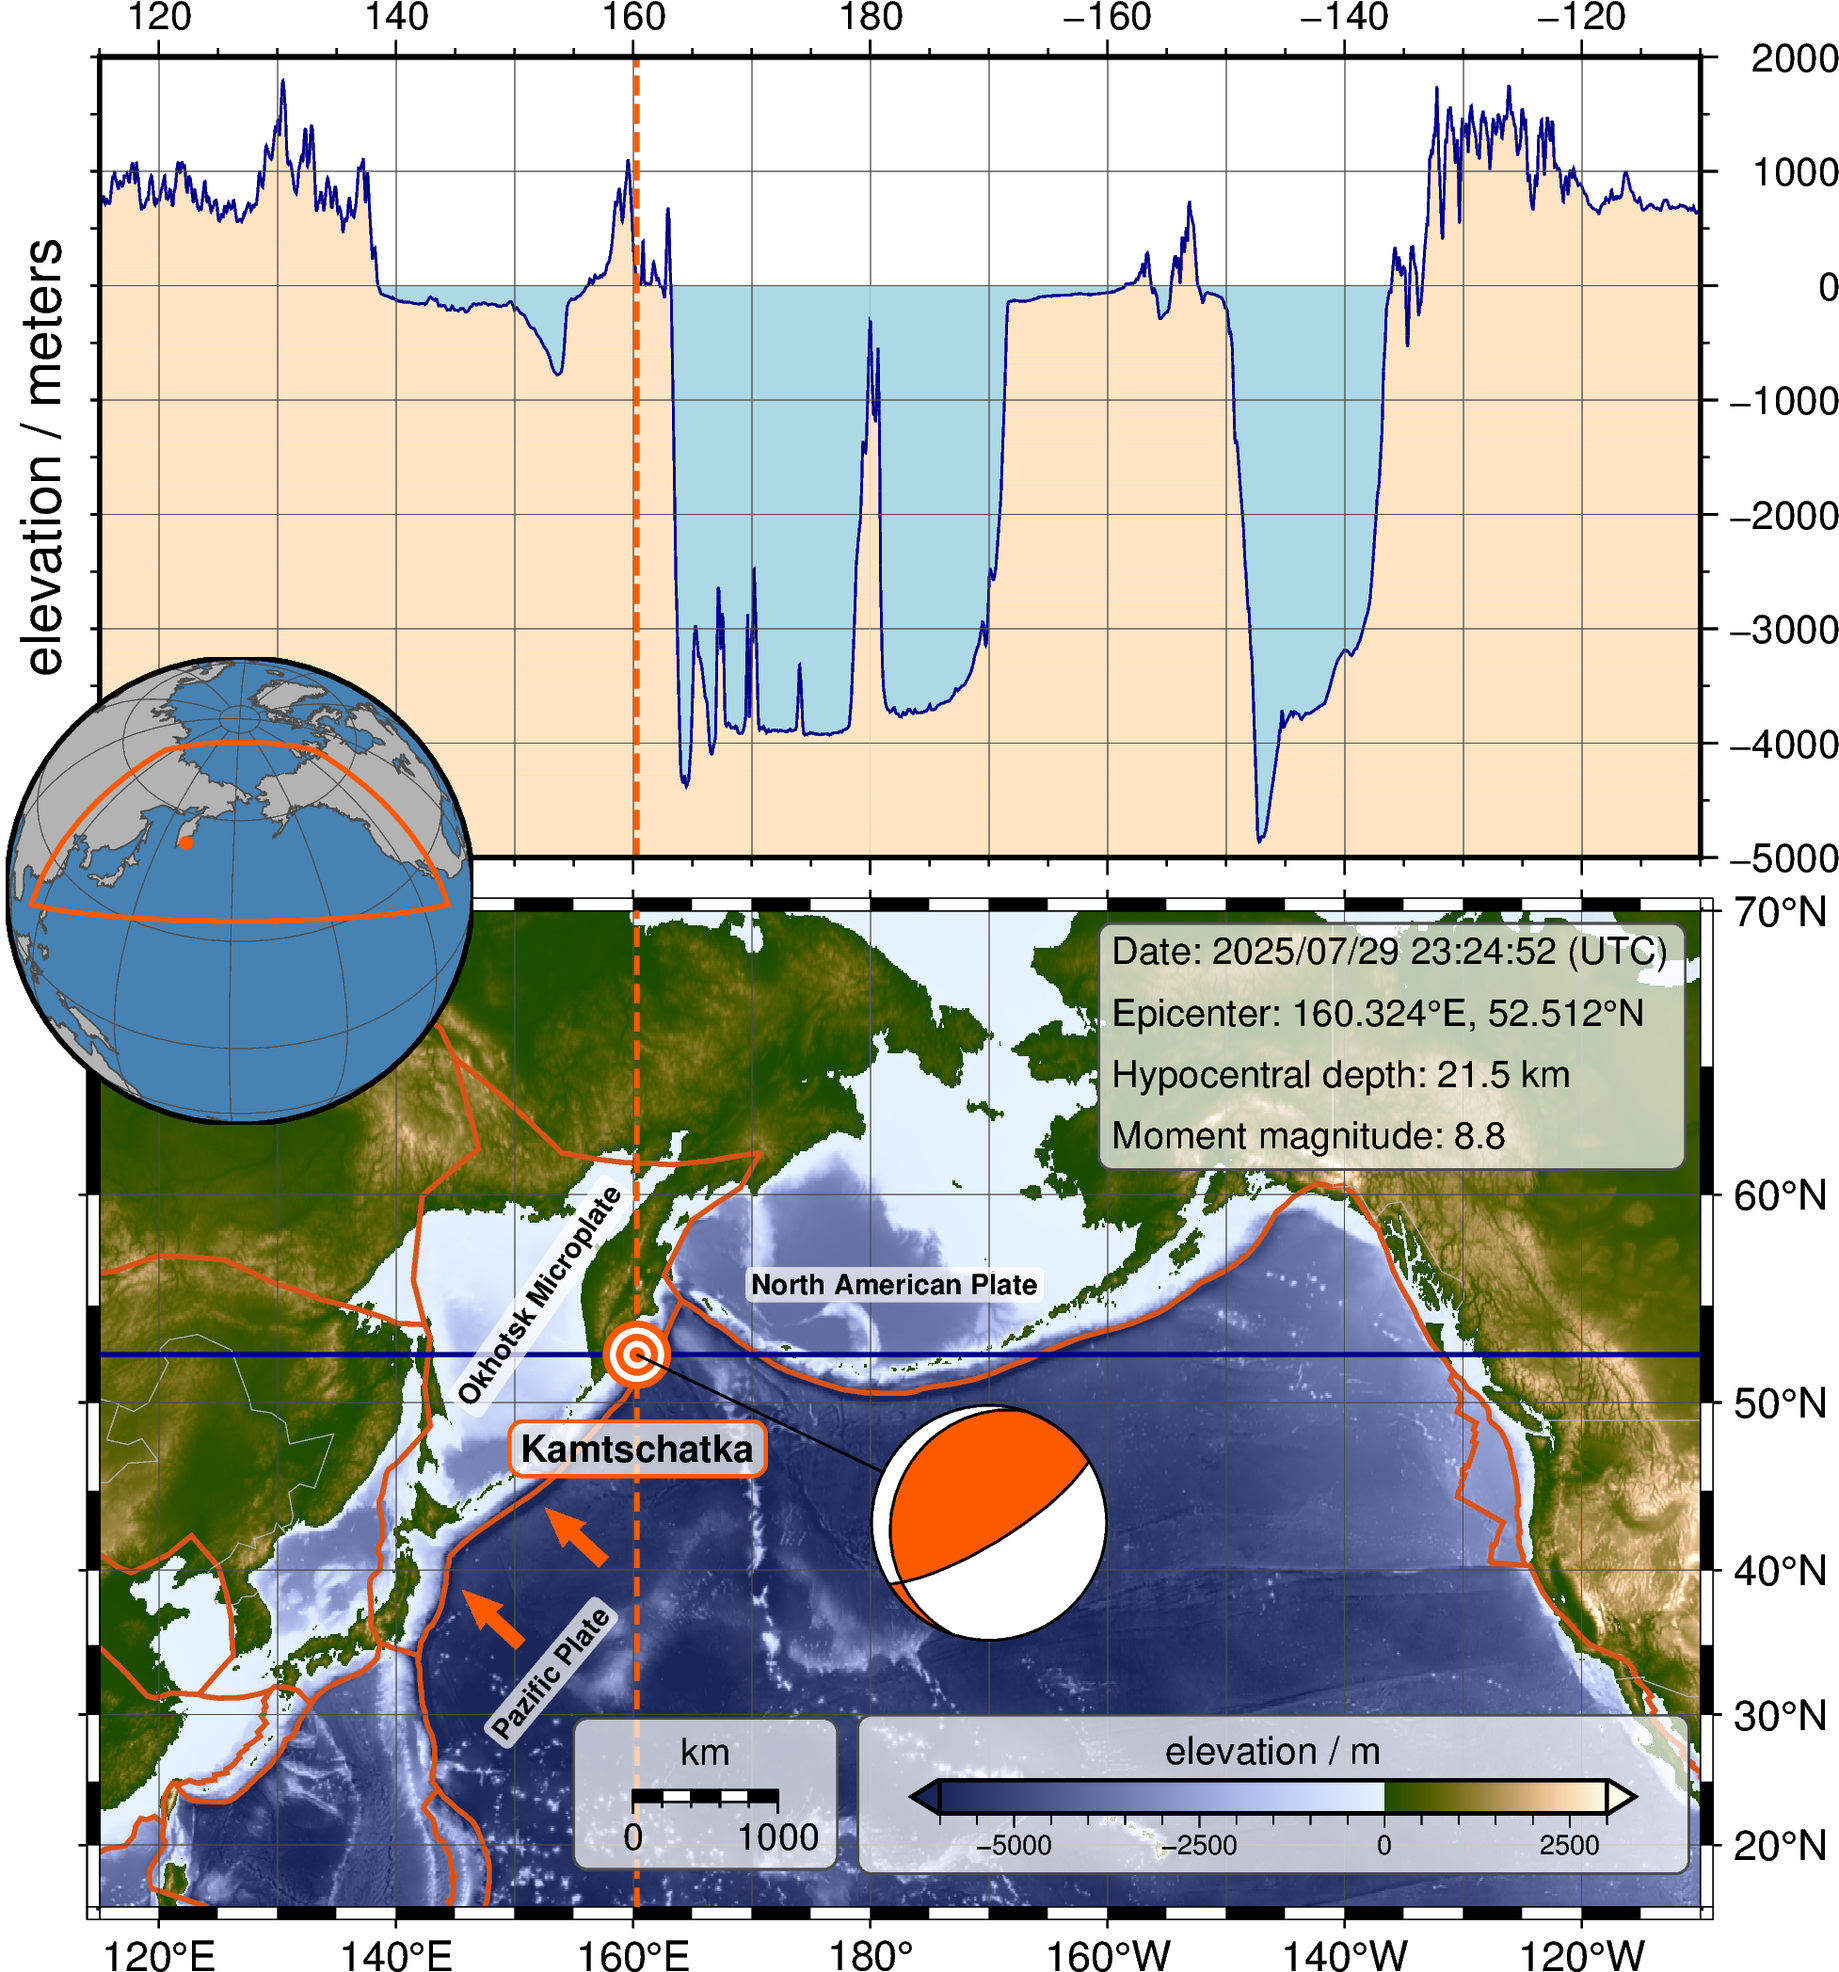
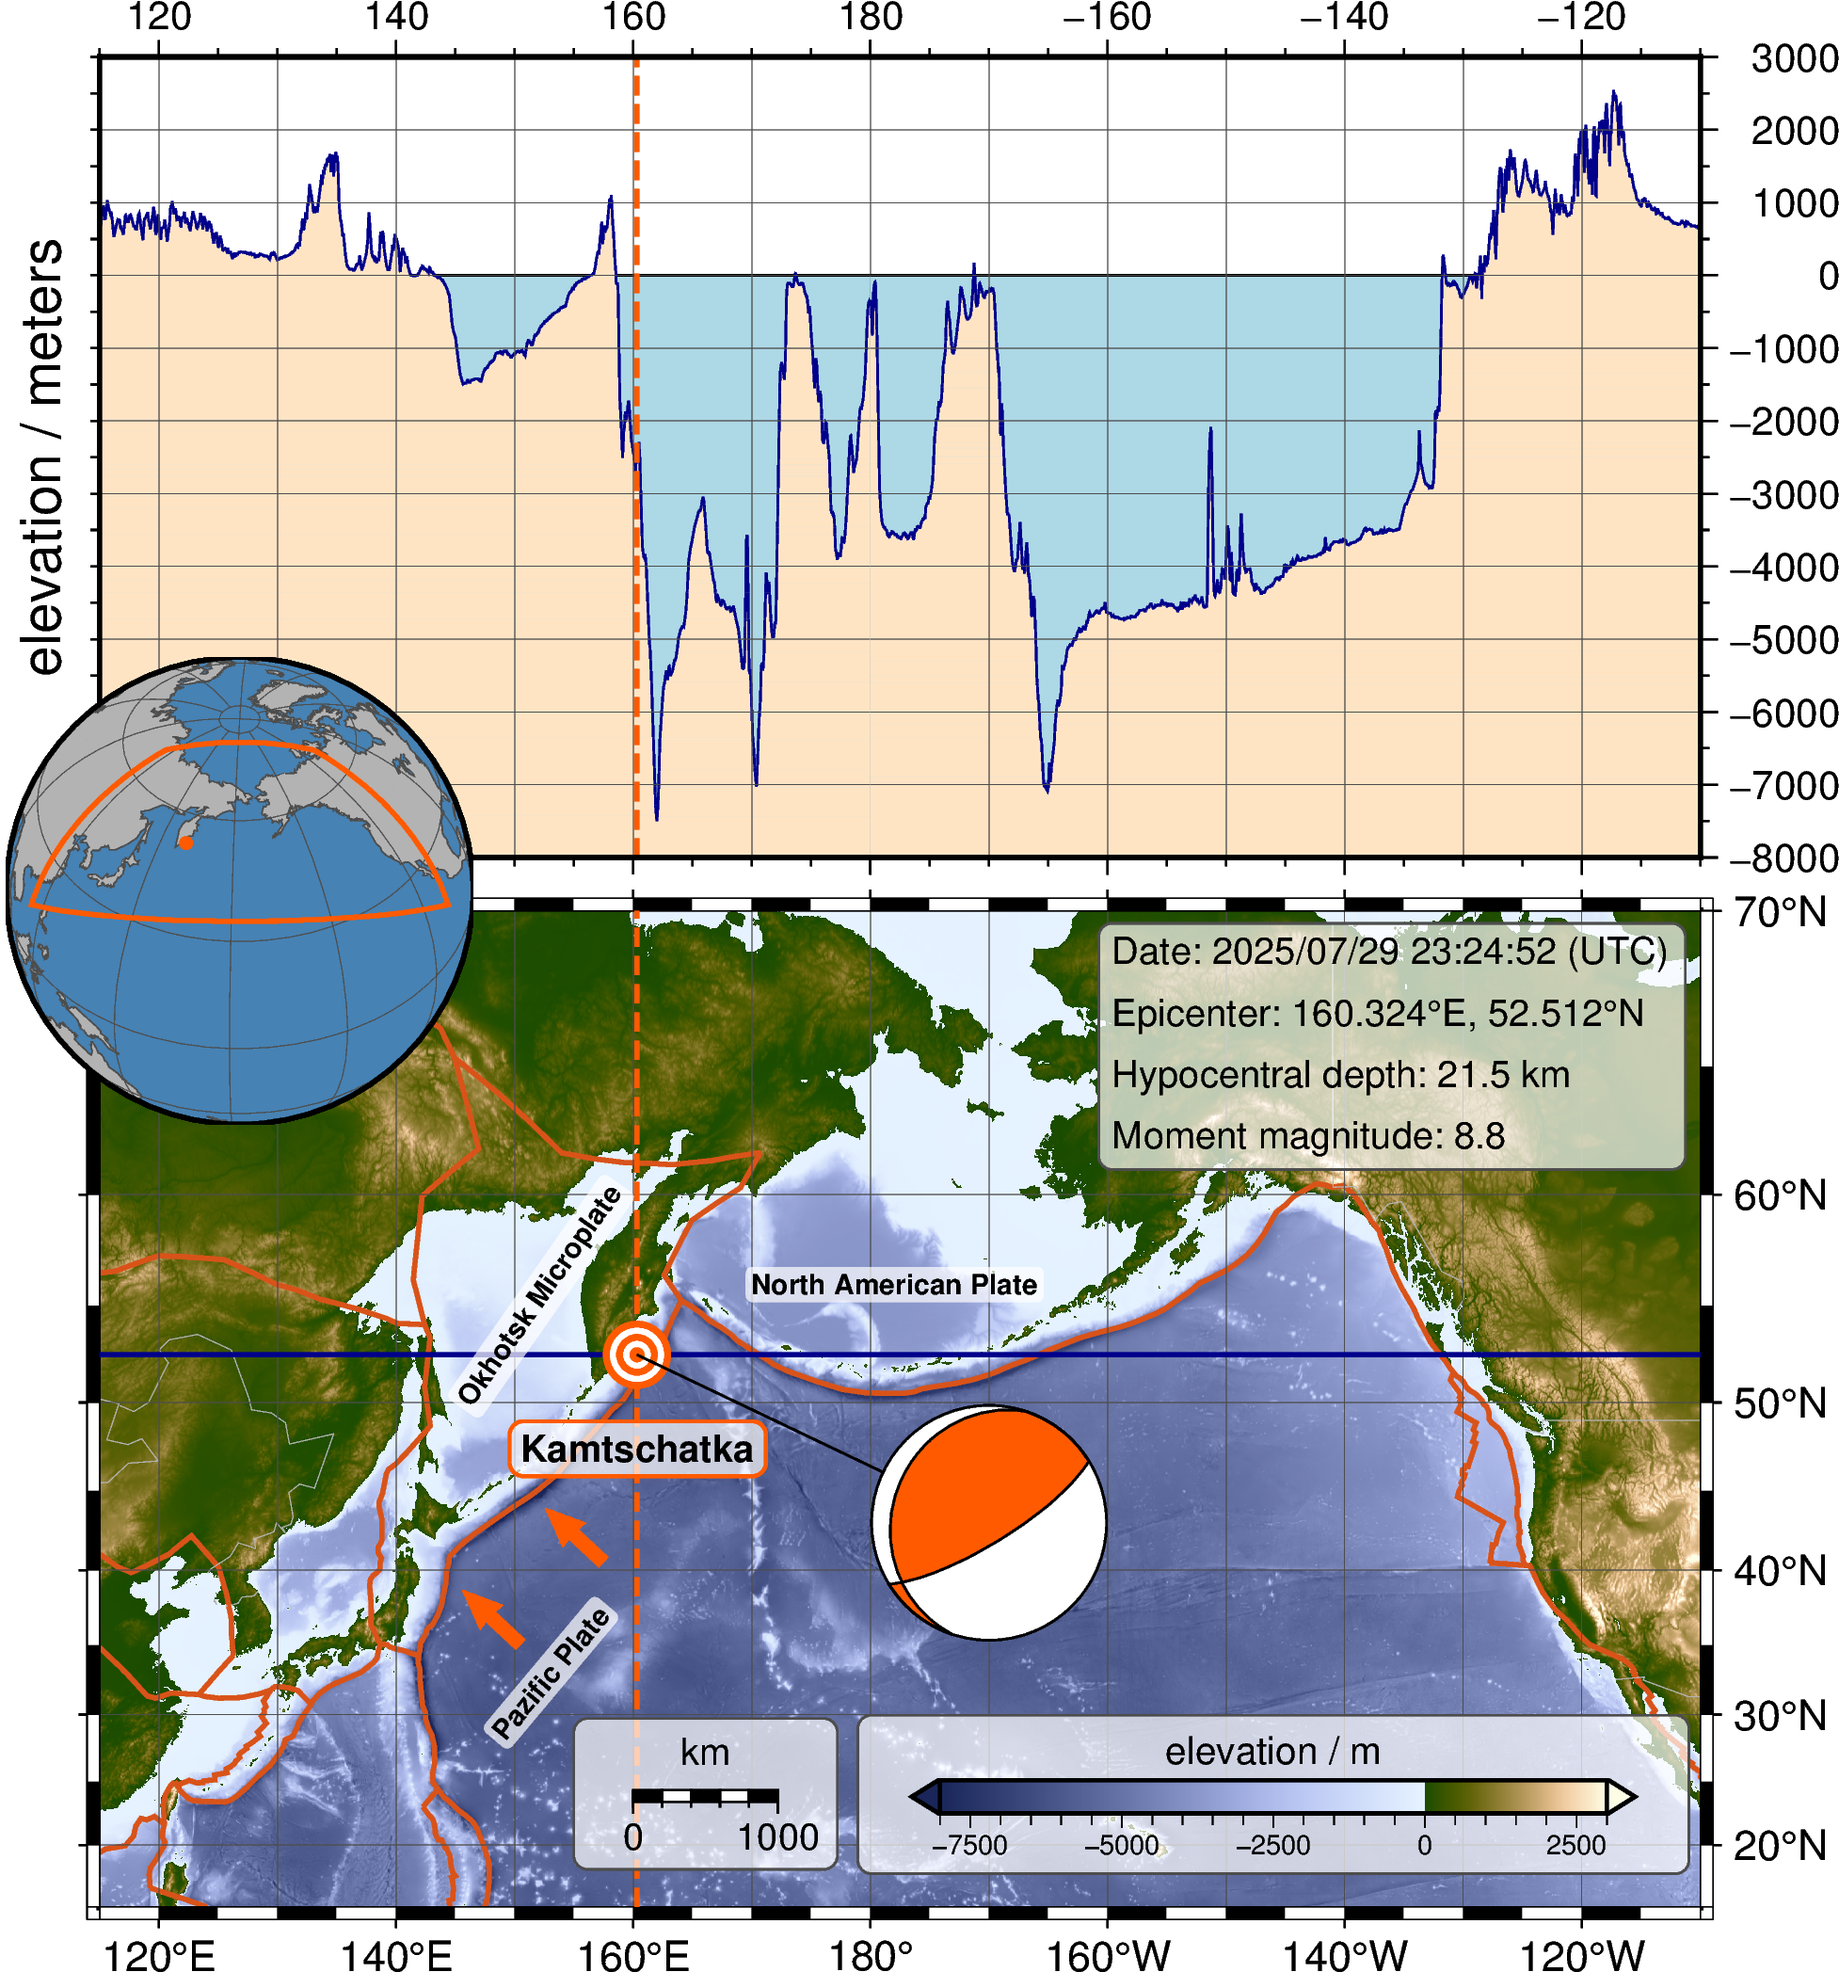
Fix profil

Changed region(s): [[0.0312, 0.5895, 0.9365, 0.9928], [0.0312, 0.031, 0.9365, 0.4033], [0.9365, 0.0621, 1.0, 0.4033]]

diff --git a/004_earthquakes_eruptions/09_kamtschatka_earthquake.py b/004_earthquakes_eruptions/09_kamtschatka_earthquake.py
@@ -28,7 +28,7 @@ import pygmt as gmt
 # >>> Adjust for your needs <<<
 fig_name = "09_kamtschatka_earthquake"  # Name of output figure
 dpi_png = 360  # Resolution of output PNG
-grid_res = "30m"  # Resolution of elevation grid
+grid_res = "03m"  # Resolution of elevation grid
 grid_reg = "g"  # Registration of elevation grid
 
 # -----------------------------------------------------------------------------
@@ -49,6 +49,9 @@ center_str = f"{(lon_max + lon_min) / 2}/{(lat_max + lat_min) / 2}"
 fig_width = 12  # in centimeters
 projection_main = f"M{fig_width}c"  # Mercator
 projection_ortho = f"G{center_str}/?"
+
+y_min = -8000
+y_max = 3000
 
 # -----------------------------------------------------------------------------
 # File name for plate boundaries after Bird 2003
@@ -95,7 +98,7 @@ fig.basemap(region=region, projection=projection_main, frame=0)
 
 # -----------------------------------------------------------------------------
 # Download and plot elevation grid
-gmt.makecpt(cmap="oleron", series=[-6000, 3000])  #, overrule_bg=True)
+gmt.makecpt(cmap="oleron", series=[y_min, y_max])  #, overrule_bg=True)
 fig.grdimage(grid=grid, region=region, cmap=True)  #, shading=True)
 
 # -----------------------------------------------------------------------------
@@ -190,8 +193,6 @@ fig.shift_origin(yshift="+h+0.4c")
 lon0 = 180
 total_lon = lon_max - lon_min
 lon2width = fig_width / total_lon
-y_min = -5000
-y_max = 2000
 
 for side in ["left", "right"]:
 
@@ -210,6 +211,7 @@ for side in ["left", "right"]:
         center=[lon_start, lat_eq],  # Start point of survey line (longitude, latitude)
         endpoint=[lon_end, lat_eq],  # End point of survey line (longitude, latitude)
         generate=0.01,  # Output data in steps
+        flat_earth=True,
     )
     gmt.config(MAP_FRAME_PEN="0.001p,white@100")
     fig.basemap(
@@ -219,6 +221,7 @@ for side in ["left", "right"]:
     )
     # Plot water in lightblue
     fig.plot(data=[[lon_start, y_min, lon_end, 0]], style="r+s", fill="lightblue")
+    fig.plot(x=[lon_start, lon_end], y=[0, 0], pen="0.5p,black")
     # Extract the elevation at the generated points from the downloaded grid
     track_df = gmt.grdtrack(grid=grid, points=track_df_points, newcolname="elevation")
     # Plot elevation
@@ -275,6 +278,6 @@ with fig.inset(position=pos_study_inset):
 # -----------------------------------------------------------------------------
 # Show and save figure
 fig.show()
-# for ext in ["png"]:  # , "pdf", "eps"]:
-#     fig.savefig(fname=f"{path_out}/{fig_name}.{ext}", dpi=dpi_png)
+for ext in ["png"]:  # , "pdf", "eps"]:
+    fig.savefig(fname=f"{path_out}/{fig_name}.{ext}", dpi=dpi_png)
 print(fig_name)
